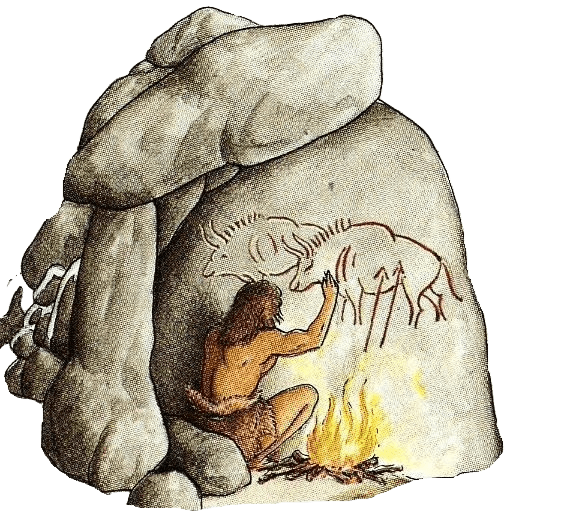
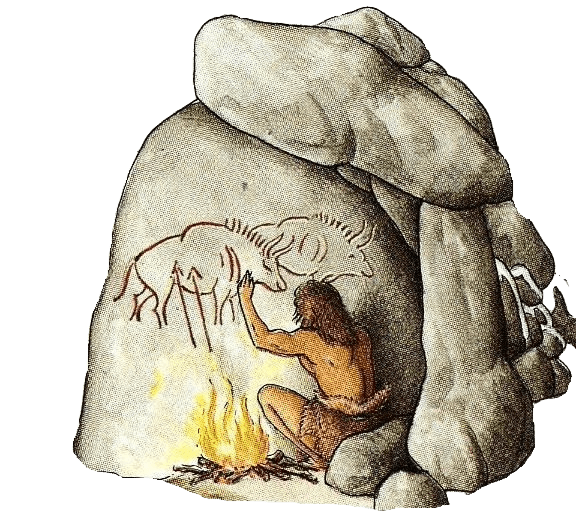
14th commit

diff --git a/src/pages/AboutUs.jsx b/src/pages/AboutUs.jsx
@@ -6,6 +6,7 @@ import { Slide, Zoom } from 'react-awesome-reveal';
 
 const AboutUs = () => {
   const [scrollY, setScrollY] = useState(0);
+  const [scale, setScale] = useState(2);
 
   useEffect(() => {
     const handleScroll = () => {
@@ -37,16 +38,16 @@ const AboutUs = () => {
       </div> */}
       <section className="relative w-full h-[400px] flex flex-col items-center justify-center overflow-hidden z-40">
         <div className="absolute inset-0 z-10 opacity-30" style={{ backgroundColor: '#f7f7f7', backgroundAttachment: 'fixed', backgroundPosition: 'center', backgroundRepeat: 'no-repeat', backgroundSize: 'cover' }}></div>
-        <div className="absolute inset-0 z-0" style={{ backgroundImage: `url(${AboutUsBg})`, backgroundColor: '#1C39BB', backgroundAttachment: 'fixed', backgroundPosition: 'center', backgroundRepeat: 'no-repeat', backgroundSize: 'cover' }}></div>
+        <div className="absolute inset-0 z-0" style={{ backgroundImage: `url(${AboutUsBg})`, backgroundColor: '#f7f7f7', backgroundAttachment: 'fixed', backgroundPosition: 'center', backgroundRepeat: 'no-repeat', backgroundSize: 'cover' }}></div>
 
         <div className="z-20 text-[#373D3B] text-center text-6xl font-bold md:flex md:flex-row md:gap-4" style={{ opacity: 1 - scrollY / 200 }}>
           <FadeinAnimation >About Us</FadeinAnimation>
 
         </div>
       </section>
-      <div className="flex flex-col z-30 h-full">
+      <div className="flex md:flex-row flex-col z-30 lg:p-20 md:p-10 p-5 md:pt-0 pt-20">
 
-        <div className="relative pt-20 w-full flex flex-col text-center">
+        <div className="relative flex flex-col md:text-center text-justify md:w-[90%] w-full lg:pl-10 md:pl-0 lg:pr-20 md:pr-10">
           <div
             className="absolute inset-0 z-0 w-full opacity-60"
             style={{
@@ -56,57 +57,58 @@ const AboutUs = () => {
               backgroundSize: 'cover',
             }}
           ></div>
-          <div className="flex flex-row items-center text-center justify-center md:mx-0 px-3 md:my-10 w-full "  >
-            <div className="h-7 w-1 bg-[#1C39BB] mt-1 mr-2 z-10"></div>
+          <div className="flex flex-col items-center text-center justify-center md:mx-0 px-3 md:my-10 md:mt-16 w-full "  >
+            {/* <div className="h-[2px] w-7 bg-[#1C39BB] mb-10 z-10"></div> */}
 
-            <h2 className=" font-bold md:text-[56px] text-[#373D3B] text-3xl md:px-14 poppins-bold z-10">Our Mission</h2>
+            <h2 className=" font-bold lg:text-[56px] md:text-[46px] text-[#373D3B] text-3xl md:px-14 poppins-bold z-10">Our Mission</h2>
           </div>
-          <div className='flex md:mx-0 mx-3'>
+          <div className='lg:h-[120px] md:h-[100px] h-[60px] w-[2px] bg-[#1C39BB] self-center z-10 md:my-0 my-5'></div>
+          <div className='flex md:mx-0 '>
             <FadeinAnimation>
-              <Slide direction="up" duration={1000}>
-                <h6 className="mt-4 text-gray-900 text-xs md:text-2xl px-2 z-20 open-sans-regular md:px-20">
-                  From the dawn of humanity, when our ancestors huddled around flickering fires in ancient
-                  caves, storytelling has been the sacred rite. At Zenone Studioz, we carry this torch forward. Our mission
-                  is simple yet profound: to weave narratives that resonate across epochs. We believe that a well-crafted
-                  script is the heartbeat of any production. While other elements contribute, it’s the script, directors, and
-                  actors that shape our cinematic universe.
-                </h6>
-              </Slide>
+              <h6 className="mt-4 text-[#623100] text-xs lg:text-lg md:text-base px-2 z-20 open-sans-regular md:px-0">
+                From the dawn of humanity, when our ancestors huddled around flickering fires in ancient
+                caves, storytelling has been the sacred rite. At Zenone Studioz, we carry this torch forward. Our mission
+                is simple yet profound: to weave narratives that resonate across epochs. We believe that a well-crafted
+                script is the heartbeat of any production. While other elements contribute, it’s the script, directors, and
+                actors that shape our cinematic universe.
+              </h6>
             </FadeinAnimation>
           </div>
-          <div className="w-full md:h-[250px] h-[100px] relative mt-6 mb-6">
 
-            <div className="absolute inset-0 z-10 opacity-20" style={{ backgroundColor: 'black', backgroundAttachment: 'fixed', backgroundPosition: 'center', backgroundRepeat: 'no-repeat', backgroundSize: 'cover' }}></div>
+          <div className='flex md:mx-0 px-0'>
+            <FadeinAnimation>
+              <h6 className="lg:mt-10 mt-5 md:mb-16 mb-5 text-[#623100] text-xs lg:text-lg md:text-base px-2 z-20 open-sans-regular md:px-0">
+                We obsess over concepts and scripts, nurturing them like rare blooms. Our canvas spans genres—drama,
+                mystery, romance, and fantasy—each guided by passion and purpose. We collaborate with industry
+                luminaries, transforming ink into celluloid magic. Our commitment extends beyond the screen.
+              </h6>
+            </FadeinAnimation>
+          </div>
+        </div>
+        <div className="lg:w-[50%] md:w-[60%] md:h-[550px] w-full h-[200px] relative md:mt-10 md:mb-0 mb-10">
+          <div className='relative w-full h-full overflow-hidden rounded-xl'>
+            <div className="absolute inset-0 z-10 opacity-20 " style={{ backgroundColor: 'black', backgroundAttachment: 'fixed', backgroundPosition: 'center', backgroundRepeat: 'no-repeat', backgroundSize: 'cover' }}></div>
 
-            <div
-              className="absolute inset-0 z-0 "
-              style={{
-                backgroundImage: `url(${CaveArt1})`,
-                backgroundPosition: 'center',
-                backgroundRepeat: 'no-repeat',
-                backgroundSize: 'cover',
-                backgroundAttachment: 'fixed',
-              }}
-            ></div>
             <img
-              src={CaveArt2}
-              alt="Img"
-              className='absolute -left-10 -top-5 md:h-[300px] h-[150px] object-contain z-10 drop-shadow-2xl '
+              src={CaveArt1}
+              alt='caveart'
               loading='lazy'
+              className="w-full h-full object-cover transition-transform duration-0 animate-fadeIn"
+              style={{
+                transform: `translateY(${scrollY * 0.1}px) scale(${scale})`,
+                ...(window.innerWidth >= 768 && {
+                  // Example additional styles for larger screens
+                  transform: `translateY(${scrollY * 0.4}px) scale(${scale})`,
+                }),
+              }}
             />
           </div>
-          <div className='flex md:mx-0 px-5'>
-            <FadeinAnimation>
-              <Slide direction="down" duration={1000}>
-
-                <h6 className="mt-4 mb-20 text-gray-900 text-xs md:text-2xl z-20 open-sans-regular md:px-20">
-                  We obsess over concepts and scripts, nurturing them like rare blooms. Our canvas spans genres—drama,
-                  mystery, romance, and fantasy—each guided by passion and purpose. We collaborate with industry
-                  luminaries, transforming ink into celluloid magic. Our commitment extends beyond the screen.
-                </h6>
-              </Slide>
-            </FadeinAnimation>
-          </div>
+          <img
+            src={CaveArt2}
+            alt="Img"
+            className='absolute md:-right-10 md:-bottom-10 -right-5 -bottom-5 lg:h-[300px] md:h-[200px] h-[150px] object-contain z-10 drop-shadow-2xl '
+            loading='lazy'
+          />
         </div>
       </div>
       <div className="relative md:px-20 flex flex-col z-30 pt-20 md:pb-20 pb-10">
@@ -128,7 +130,7 @@ const AboutUs = () => {
           <FadeinAnimation>
             <Zoom duration={1000} delay={-500}>
               <div className="flex text-center md:mt-16 z-30 md:mx-0 mx-5 md:px-10">
-                <h6 className="mt-4 md:text-2xl text-xs font-medium text-gray-600 ">
+                <h6 className="mt-4 lg:text-2xl md:text-lg text-xs font-medium text-gray-600 ">
                   Zenone Studioz is in the business of art. We specialize in content production for both feature
                   films and web series, primarily working in the Hindi and Telugu industries. Collaborating with well-
                   known talents in these markets, we strive to create engaging narratives that resonate with audiences. Our

diff --git a/src/components/AboutUsSectionHome.jsx b/src/components/AboutUsSectionHome.jsx
@@ -49,10 +49,10 @@ const AboutUsSectionHome = () => {
                         <div className="absolute inset-0 z-0 w-full h-full flex items-center justify-center top-40 md:top-0 shadow-lg rounded-s-xl">
                             <div className="w-[100%] h-[100%] bg-center bg-no-repeat bg-cover shadow-lg rounded-s-xl" style={{ backgroundImage: `url(${CaveArt1})` }}></div>
                         </div>
-                        <div className="absolute flex mx-3 mt-10 mb-0 text-center left-10 bottom-10 z-20 top-44 md:top-auto">
+                        <div className="absolute flex 394px:mx-3 mt-10 mb-0 text-center left-5 394px:left-10 bottom-10 z-20 top-36 394px:top-44 md:top-auto">
                             <FadeinAnimation>
                                 <Slide direction="left" duration={1000} delay={-500}>
-                                    <h6 className="text-[#f7f7f7] text-justify text-lg md:text-lg 1113px:text-2xl 875px:text-xl mr-10 z-20 poppins-regular drop-shadow-[0_4px_3px_rgba(0,0,0,0.5)]">
+                                    <h6 className="text-[#f7f7f7] text-justify text-base md:text-lg 1113px:text-2xl 875px:text-xl pr-5 394px:pr-10 z-20 poppins-regular drop-shadow-[0_4px_3px_rgba(0,0,0,0.5)]">
                                         From the dawn of humanity, when our ancestors huddled around flickering fires in ancient
                                         caves, <span className="highlight">storytelling</span> has been the sacred rite. At <span className="highlight">Zenone Studioz</span>, we carry this torch forward. Our mission
                                         is simple yet profound: to weave <span className="highlight">narratives</span> that resonate across epochs. We believe that a well-crafted
@@ -66,7 +66,7 @@ const AboutUsSectionHome = () => {
                 </div>
             </div>
 
-            <div className="relative max-w-full h-screen flex md:flex-row-reverse flex-col p-5 pt-20 pb-8 z-30">
+            <div className="relative max-w-full h-[110vh] flex md:flex-row-reverse flex-col p-5 pt-20 pb-8 z-30">
                 <div
                     className="absolute inset-0 z-0 w-full"
                     style={{

diff --git a/src/pages/FilmPage.jsx b/src/pages/FilmPage.jsx
@@ -43,7 +43,7 @@ const FilmPage = () => {
     <div className="bg-[#F7F7F7] flex flex-col poppins-regular">
       <section className="relative w-full h-[400px] flex flex-col items-center justify-center overflow-hidden">
         <div className="absolute inset-0 z-10 opacity-30" style={{ backgroundColor: '#f7f7f7', backgroundAttachment: 'fixed', backgroundPosition: 'center', backgroundRepeat: 'no-repeat', backgroundSize: 'cover' }}></div>
-        <div className="absolute inset-0 z-0" style={{ backgroundImage: `url(${FilmsBg})`, backgroundColor: '#1C39BB', backgroundAttachment: 'fixed', backgroundPosition: 'center', backgroundRepeat: 'no-repeat', backgroundSize: 'cover' }}></div>
+        <div className="absolute inset-0 z-0" style={{ backgroundImage: `url(${FilmsBg})`, backgroundColor: '#f7f7f7', backgroundAttachment: 'fixed', backgroundPosition: 'center', backgroundRepeat: 'no-repeat', backgroundSize: 'cover' }}></div>
 
         <div className="z-20 text-[#373D3B] text-center text-6xl font-bold md:flex md:flex-row md:gap-4" style={{ opacity: 1 - scrollY / 200 }}>
           <FadeinAnimation >Projects</FadeinAnimation>
@@ -89,11 +89,16 @@ const FilmPage = () => {
                         loading="lazy"
                       />
                       <div className="absolute inset-0 bg-black opacity-20"></div>
-                      <div className="absolute inset-0 flex items-center justify-center w-full">
+                      <FadeinAnimation>
+                      <div className="flex-row items-center justify-center w-full">
                         <h2 className="text-3xl h-full w-full text-white font-bold text-center pt-20">
-                          <FadeinAnimation>{film.title}</FadeinAnimation>
+                          {film.title}
+                        </h2>
+                        <h2 className="text-xl h-full w-full text-[#ffffff] text-center pt-20">
+                          {film.genre}
                         </h2>
                       </div>
+                      </FadeinAnimation>
                     </div>
                   </Link>
                 </SwiperSlide>

diff --git a/src/App.jsx b/src/App.jsx
@@ -3,6 +3,8 @@ import { BrowserRouter as Router, Route, Routes } from 'react-router-dom';
 import { Footer, Navbar, ScrollToTop } from './components';
 import { AboutUs, ContactUs, FilmDetailPage, FilmPage, Home, KeyTeam } from './pages';
 import AnimatedCursor from 'react-animated-cursor';
+import { isMobile } from 'react-device-detect';
+
 
 function App() {
   return (
@@ -18,22 +20,24 @@ function App() {
         <Route path="/about-us" element={<AboutUs />} />
       </Routes>
       <Footer />
-      <AnimatedCursor
-        innerSize={8}
-        outerSize={35}
-        innerScale={1}
-        outerScale={2}
-        outerAlpha={0}
-        hasBlendMode={true}
-        innerStyle={{
-          backgroundColor: 'var(--cursor-color)',
-          boxShadow: '0 1px 8px rgba(0, 0, 0, 0.6)', // Adjust the shadow as needed
-        }}
-        outerStyle={{
-          border: '3px solid var(--cursor-color)',
-          boxShadow: '0 1px 8px rgba(0, 0, 0, 0.6)', // Adjust the shadow as needed
-        }}
-      />
+      {!isMobile && (
+        <AnimatedCursor
+          innerSize={8}
+          outerSize={35}
+          innerScale={1}
+          outerScale={2}
+          outerAlpha={0}
+          hasBlendMode={true}
+          innerStyle={{
+            backgroundColor: 'var(--cursor-color)',
+            boxShadow: '0 1px 8px rgba(0, 0, 0, 0.6)', // Adjust the shadow as needed
+          }}
+          outerStyle={{
+            border: '3px solid var(--cursor-color)',
+            boxShadow: '0 1px 8px rgba(0, 0, 0, 0.6)', // Adjust the shadow as needed
+          }}
+        />
+      )}
     </Router>
   );
 }

diff --git a/src/components/Navbar.jsx b/src/components/Navbar.jsx
@@ -44,7 +44,7 @@ const Navbar = () => {
     <nav
       className={`p-4 md:px-20 flex open-sans-regular justify-between items-center fixed w-full z-50 transition-transform duration-300 ${showNavbar ? 'translate-y-0' : '-translate-y-full'}`}
       style={{
-        backgroundColor: `rgba(26,35,126, ${bgOpacity})`,
+        backgroundColor: `rgba(255,255,255, ${bgOpacity})`,
         backdropFilter: 'blur(5px)', // Add blur effect
         WebkitBackdropFilter: 'blur(5px)' // For Safari support 
       }}
@@ -52,7 +52,7 @@ const Navbar = () => {
       <Link to="/" className={`font-bold text-4xl ${isFilmPage ? 'text-[#f7f7f7]' : 'text-[#373D3B]'}`}>Zenone</Link>
 
       <div className="hidden md:flex items-center space-x-12 text-[#373D3B] font-semibold">
-        <Link to="/" className={`text-xl w-[100px] text-center  ${getLinkClass('/')} ${isFilmPage ? 'text-[#f7f7f7] fading-2' : 'text-[#373D3B] fading-1'} `}>Home</Link>
+        <Link to="/" className={`text-xl w-[100px] text-center ${getLinkClass('/')} ${isFilmPage ? 'text-[#f7f7f7] fading-2' : 'text-[#373D3B] fading-1'} `}>Home</Link>
         <Link to="/films" className={`text-xl  ${getLinkClass('/films')} ${isFilmPage ? 'text-[#f7f7f7] fading-2' : 'text-[#373D3B] fading-1'} `}>Projects</Link>
         <Link to="/key-team" className={`text-xl  ${getLinkClass('/key-team')} ${isFilmPage ? 'text-[#f7f7f7] fading-2' : 'text-[#373D3B] fading-1'} `}>Key Team</Link>
         <Link to="/about-us" className={`text-xl  ${getLinkClass('/about-us')} ${isFilmPage ? 'text-[#f7f7f7] fading-2' : 'text-[#373D3B] fading-1'} `}>About Us</Link>

diff --git a/src/components/FilmSectionHome.jsx b/src/components/FilmSectionHome.jsx
@@ -87,7 +87,7 @@ const FilmSectionHome = () => {
                 breakpoint: 1024,
                 settings: {
                     slidesToShow: 1,
-                    centerPadding: "250px"
+                    centerPadding: "190px"
                 }
             },
             {
@@ -179,8 +179,8 @@ const FilmSectionHome = () => {
             ></div>
             <div className="flex flex-col md:flex-row items-center px-3 md:justify-start w-full md:pl-60 z-20">
                 <div className="flex flex-row items-center text-center justify-center md:mx-0 mx-3 w-full md:h-[100px] h-[100px]">
-                    <div className="h-7 w-1 bg-[#1C39BB] mt-1 mr-2 z-20"></div>
-                    <h2 className="font-bold md:text-[20px] text-[#373D3B] text-3xl md:px-14 poppins-bold z-20">Our Projects</h2>
+                    <div className="h-5 w-1 bg-[#1C39BB] mt-1 mr-1 z-20"></div>
+                    <h2 className="font-bold md:text-[20px] text-[#373D3B] text-[20px] md:px-10 poppins-bold z-20">Our Projects</h2>
                 </div>
                 <Link to="/films" className="arrow-link dancing-script-bold w-32 h-auto md:mr-28 rounded-md text-center text-2xl text-[#ffffff] self-center md:ml-auto md:mt-0 md:mb-0 mb-5 transition-all duration-300 hover:text-lg">
                     See more

diff --git a/src/pages/KeyTeam.jsx b/src/pages/KeyTeam.jsx
@@ -35,7 +35,7 @@ const KeyTeam = () => {
 
       <section className="relative w-full h-[400px] flex flex-col items-center justify-center overflow-hidden">
         <div className="absolute inset-0 z-10 opacity-30" style={{ backgroundColor: '#f7f7f7', backgroundAttachment: 'fixed', backgroundPosition: 'center', backgroundRepeat: 'no-repeat', backgroundSize: 'cover' }}></div>
-        <div className="absolute inset-0 z-0" style={{ backgroundImage: `url(${KeyTeamBg})`, backgroundColor: '#1C39BB', backgroundAttachment: 'fixed', backgroundPosition: 'center', backgroundRepeat: 'no-repeat', backgroundSize: 'cover' }}></div>
+        <div className="absolute inset-0 z-0" style={{ backgroundImage: `url(${KeyTeamBg})`, backgroundColor: '#f7f7f7', backgroundAttachment: 'fixed', backgroundPosition: 'center', backgroundRepeat: 'no-repeat', backgroundSize: 'cover' }}></div>
 
         <div className="z-20 text-[#373D3B] text-center text-6xl font-bold md:flex md:flex-row md:gap-4" style={{ opacity: 1 - scrollY / 200 }}>
           <FadeinAnimation >Key team</FadeinAnimation>

diff --git a/src/pages/ContactUs.jsx b/src/pages/ContactUs.jsx
@@ -45,7 +45,7 @@ const ContactUs = () => {
     <div>
       <section className="relative w-full h-[400px] flex flex-col items-center justify-center overflow-hidden poppins-regular">
         <div className="absolute inset-0 z-10 bg-black opacity-0"></div>
-        <div className="absolute inset-0 z-0" style={{ backgroundImage: `url(${ContactUsBg})`, backgroundColor: '#1C39BB', backgroundAttachment: 'fixed', backgroundPosition: 'center', backgroundRepeat: 'no-repeat', backgroundSize: 'cover' }}></div>
+        <div className="absolute inset-0 z-0" style={{ backgroundImage: `url(${ContactUsBg})`, backgroundColor: '#f7f7f7', backgroundAttachment: 'fixed', backgroundPosition: 'center', backgroundRepeat: 'no-repeat', backgroundSize: 'cover' }}></div>
         <div className="z-10 text-[#373D3B] text-center text-5xl font-bold " style={{ opacity: 1 - scrollY / 200 }}>
           Contact Us
         </div>

diff --git a/src/index.css b/src/index.css
@@ -124,7 +124,7 @@ html {
 
 .fading-1 {
   background: 
-     linear-gradient(90deg, transparent, black, transparent) 
+     linear-gradient(90deg, transparent, #373D3B, transparent) 
     bottom /var(--d, 0) 3px no-repeat;
   transition: 0.5s;
 }

diff --git a/tailwind.config.js b/tailwind.config.js
@@ -11,6 +11,7 @@ export default {
         '1113px': '1113px',
         '900px': '900px',
         '875px': '875px',
+        '394px': '394px',
       },
       cursor: {
         custom: 'cursor-custom',
